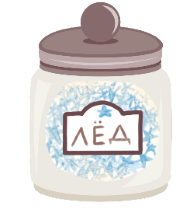
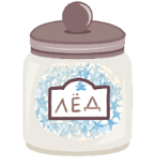
Три вида льда

diff --git a/src/p/Level_2.java b/src/p/Level_2.java
@@ -36,6 +36,8 @@ public class Level_2 extends JLayeredPane implements MouseListener, ActionListen
 
    // private final NewProduct cup;
     private final NewProduct ice;
+    private final NewProduct ice2;
+    private final NewProduct ice3;
     private final NewProduct milk;
     private final NewProduct sugar;
     private final NewProduct tea;
@@ -48,6 +50,7 @@ public class Level_2 extends JLayeredPane implements MouseListener, ActionListen
     private final NewProduct random_tea;
     //private final NewProduct oil;
     private NewProduct cup;
+    private NewProduct cup1;
 
     private NewProduct boardWithCheese;
     private NewProduct boardWithCutCheese;
@@ -64,7 +67,7 @@ public class Level_2 extends JLayeredPane implements MouseListener, ActionListen
     public Level_2() {
 
         setLayout(null);
-        backgroundIcon = new ImageIcon(getClass().getClassLoader().getResource("img/cafe_screen.png"));
+        backgroundIcon = new ImageIcon(getClass().getClassLoader().getResource("img/cafe_screen_1.png"));
         //cupIcon = new ImageIcon(getClass().getClassLoader().getResource("img/cup.png"));
 
 
@@ -73,8 +76,14 @@ public class Level_2 extends JLayeredPane implements MouseListener, ActionListen
 
 
         ice = new NewProduct("ice", true,
-                "img/star.png", "img/ice_selected.png",
-                "img/ice.png", "img/ice.png");
+                "img/star.png", "img/star.png",
+                "img/star.png", "img/star.png");
+        ice2 = new NewProduct("ice2", true,
+                "img/kib.png", "img/kib.png",
+                "img/kib.png", "img/kib.png");
+        ice3= new NewProduct("ice3", true,
+                "img/heart.png", "img/heart.png",
+                "img/heart.png", "img/heart.png");
         milk = new NewProduct("milk", true,
                 "img/milkFull.png", "img/milkFullSelected.png",
                 "img/milkPartial.png", "img/milkPartialSelected.png");
@@ -90,6 +99,9 @@ public class Level_2 extends JLayeredPane implements MouseListener, ActionListen
         vanil = new NewProduct("vanil", true,
                 "img/vanil.png", "img/vanil_selected.png",
                 "img/vanil.png", "img/vanil_selected.png");
+        cup1 = new NewProduct("cup", false,
+                "img/cup.png", "img/cup.png",
+                "img/cup.png", "img/cup.png");
 
         cup = new NewProduct("cup", false,
                 "img/cup.png", "img/cup.png",
@@ -160,8 +172,14 @@ int d =  random.nextInt(2) + 1;
         setPreferredSize(new Dimension(backgroundIcon.getIconWidth(), backgroundIcon.getIconHeight()));
 
         add(ice);
-        ice.setBounds(50, 470, 250, 250);
+        ice.setBounds(670, 120, 250, 250);
         ice.addMouseListener(this);
+        add(ice2);
+        ice2.setBounds(820, 120, 250, 250);
+        ice2.addMouseListener(this);
+        add(ice3);
+        ice3.setBounds(957, 120, 250, 250);
+        ice3.addMouseListener(this);
         add(milk);
         milk.setBounds(200, 340, 170, 192);
         milk.addMouseListener(this);
@@ -177,6 +195,9 @@ int d =  random.nextInt(2) + 1;
         add(tea);
         tea.setBounds(1150, 410, 222, 208);
         tea.addMouseListener(this);
+
+        add(cup1);
+        cup1.setBounds(700, 500, 250, 300);
         //----------------------------------------------RANDOM
         add(cup);
         cup.setBounds(1100, 10, 250, 300);
